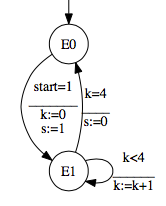
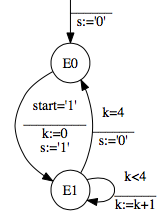
Updated README and associated files

diff --git a/doc/code/fsm_genimp.c b/doc/code/fsm_genimp.c
@@ -1,0 +1,37 @@
+#include "fsm_gensig.h"
+#include <stdio.h>
+
+void dump_ctx(ctx_t ctx)
+{
+  printf("start=%d s=%d k=%d\n", ctx.start, ctx.s, ctx.k);
+}
+
+void fsm_gensig(ctx_t *ctx)
+{
+  static int k;
+  static enum { E0, E1 } state = E0;
+  static int _init = 1;
+  if ( _init ) {
+    ctx->s=0;
+    _init=0; 
+    }
+  switch ( state ) {
+    case E0:
+      if ( ctx->start==1 ) {
+        k=0;
+        ctx->s=1;
+        state = E1;
+        }
+      break;
+    case E1:
+      if ( k<4 ) {
+        k=k+1;
+        }
+      else if ( k==4 ) {
+        ctx->s=0;
+        state = E0;
+        }
+      break;
+    }
+  ctx->k = k;
+};

diff --git a/doc/code/fsm_genimp.h b/doc/code/fsm_genimp.h
@@ -1,0 +1,15 @@
+#ifndef _fsm_gensig_h
+#define _fsm_gensig_h
+
+#include "fsml.h"
+
+typedef struct {
+  IN int start;
+ OUT int s;
+     int k;
+} ctx_t;
+
+void dump_ctx(ctx_t ctx);
+void fsm_gensig(ctx_t *ctx);
+
+#endif

diff --git a/README.md b/README.md
@@ -1,7 +1,7 @@
 FSML 
 ====
 
-FSML is a library for describing and simulating synchronous Finite State Machines in OCaml.
+FSML is a library for describing, simulating synchronous Finite State Machines in OCaml.
 
 It is a simplified version of the library provided in the [Rfsm](http://github.com/jserot/rfsm)
 package for which
@@ -24,7 +24,8 @@ The library provides
 
 * functions for saving and reading FSM representations in files using the JSON format
 
-* functions for performing single or multi-step simulations of FSMs
+* functions for performing single or multi-step simulations of FSMs and generating trace files in
+  the `.vcd` format to be viewed by VCD viewers such as [gtkwave](http://gtkwave.sourceforge.net)
 
 * functions for generating C or VHDL code from a FSM representation (for integration into existing
   code and/or simulation)
@@ -49,7 +50,7 @@ let f = [%fsm "
       E0 -> E1 when start='1' with k:=0, s:='1';
       E1 -> E1 when k<4 with k:=k+1;
       E1 -> E0 when k=4 with s:='0';
-    itrans: -> E0;
+    itrans: -> E0 with s:='0';
     "]
 ```
 
@@ -57,6 +58,24 @@ Here is its graphical representation, obtained by evaluating `let _ = Dot.view f
 
 ![](https://github.com/jserot/fsml/blob/master/doc/figs/genimp.png "")
 
+Here is the result of evaluating `Simul.run ~stop_after:7 ~stim:[%fsm_stim "start: 0,'0'; 1,'1'; 2,'0'"] f`:
+
+```
+(0, [("start", (Bool false)); ("state", (Enum "E0")); ("s", (Bool false))])
+(1, [("start", (Bool true)); ("state", (Enum "E1")); ("k", (Int 0)); ("s", (Bool true))])
+(2, [("start", (Bool false)); ("k", (Int 1))])
+(3, [("k", (Int 2))])
+(4, [("k", (Int 3))])
+(5, [("k", (Int 4))])
+(6, [("state", (Enum "E0")); ("s", (Bool false))])
+```
+
+... and the corresponding generated VCD file, viewed by `gtkwave`:
+
+![](https://github.com/jserot/fsml/blob/master/doc/figs/genimp-wave.png "")
+
+The C and VHDL code generated for this FSM can be viewed
+[here](https://github.com/jserot/fsml/blob/master/doc/code).
 
 Documentation
 -------------
@@ -82,7 +101,7 @@ From the root of the source tree :
 To try the examples :
 
 1. go the directory containing the example (*e.g.* `cd examples/ex2`)
-2. `dune exec ./test.exe`
+2. `make run; make view`
 
 Depending on the example, this will
 - generate and view the graphical representation

diff --git a/TODO.md b/TODO.md
@@ -1,3 +1,2 @@
-- VCD output for simulation
 - add precise column position when reporting PPX parse errors 
 - support for synchronous actions at the OCaml and C level
